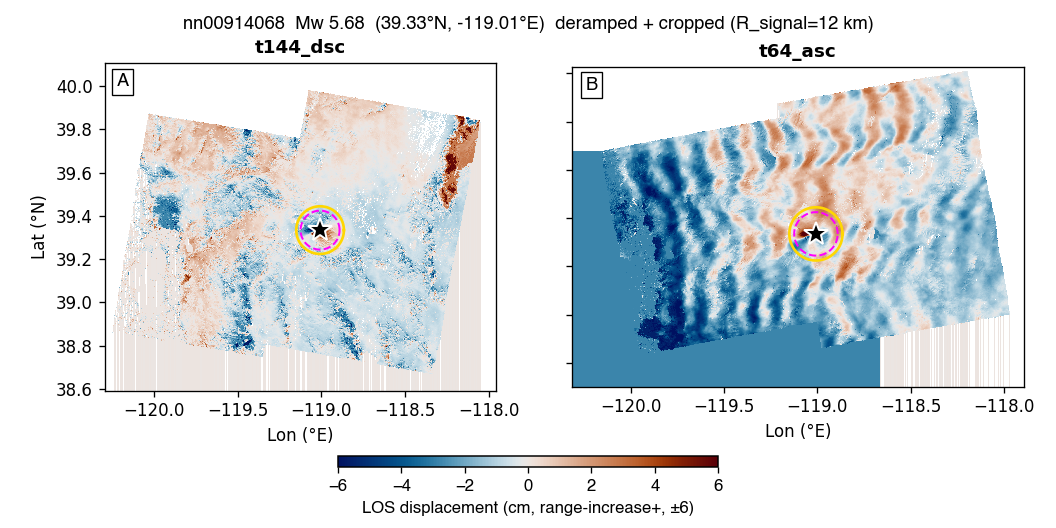
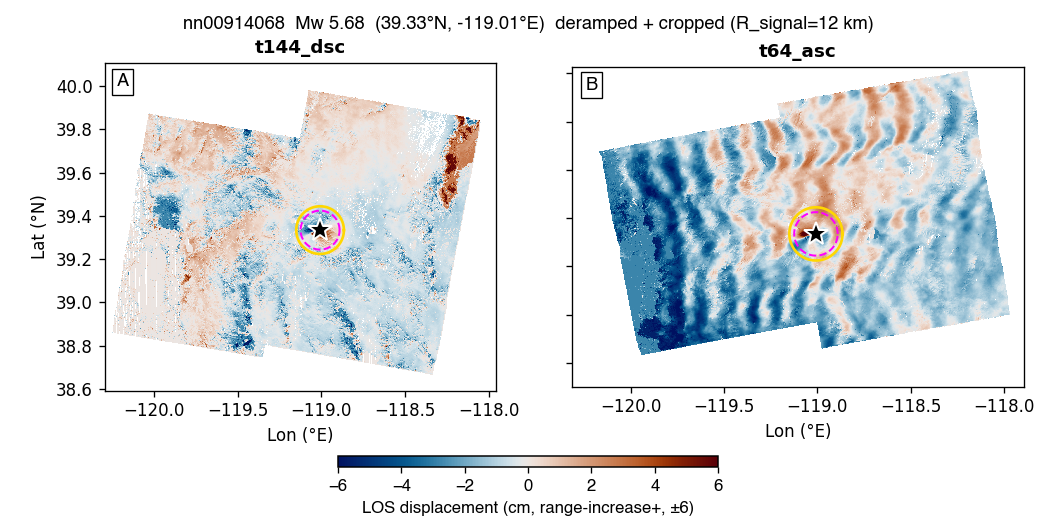
catalog update 2026-05-21T02:46:06Z (79 events)

Changed region(s): [[0.5312, 0.2727, 0.9688, 0.7576], [0.0938, 0.2727, 0.4688, 0.7576]]

diff --git a/events/nn00914068/REPORT.html b/events/nn00914068/REPORT.html
@@ -26,7 +26,7 @@
 </head><body>
 
 <h1>nn00914068 — Mw 5.68 — GBIS report</h1>
-
+<div class="summary" style="border-left-color:#1a7a2a"><b style="color:#1a7a2a">✓ VALIDATED</b> — all diagnostics A/B; usable as a source model.</div>
 
 <div class="summary">
 <b>Event:</b> 20 km ESE of Silver Springs, Nevada · (39.334°N, -119.007°E, depth 5.0 km)<br>
@@ -65,7 +65,7 @@
 </table>
 <p style="font-size:12px;color:#666">震源深度对比：USGS = 报告的震源（hypocenter）深度；GBIS = 断层质心深度 (Z_top+Z_bot)/2。</p>
 <p style="font-size:12px;color:#666">Note: GBIS optimum = single MAP sample reported by GBIS in <code>invResults.model.optimal</code>, NOT a chain median.</p>
-<div class="summary"><b>Posterior diagnostics: <span class="ok">PASS</span></b><br>acceptance 0.20 (target 0.20–0.45) · ESS 605 (≥500) · Geweke |z| 1.5 (≤2)<br>VR per track: t144_dsc 0.55 · t64_asc 0.43 (≥0.50)<br>全部通过</div>
+<div class="summary"><b>Adaptive grade — zone GREEN</b><br>acceptance 0.21 (0.20–0.45) · ESS 1169 (≥250) · Geweke |z| 1.47 (≤2) · VR_min 0.43<br>grades: ess=A · acceptance=B · geweke=A · vr_min=B · vr_mean=C · railed=A · delta_mw=A · delta_strike=A</div>
 
 <h2>4. Beachball comparison</h2>
 <img src="gbis/np1/figures/04_beachball.png">
@@ -80,5 +80,23 @@
 <h2>7. Burn-in / chain trace</h2>
 <img src="gbis/np1/figures/07_trace.png">
 <p style="font-size:12px;color:#666">Blue shading = SA cooling (first 50k iterations). Gray = post-burnin MCMC. Red horizontal = GBIS reported optimum. Dashed orange = USGS NP1 W&amp;C value.</p>
+
+
+<h2>8. Agent Review (LLM advisory)</h2>
+<div style="background:#f5f8fc;border-left:4px solid #666;
+            padding:11px 14px;margin:12px 0;font-size:13px;line-height:1.55">
+  <div style="font-size:15px"><b style="color:#666">Rating: ?</b>
+   &nbsp;·&nbsp; <i>LLM advisor not invoked</i></div>
+  <div style="margin-top:8px"><b>Recommendation:</b> <code>manual_review</code>
+   &nbsp; <b>Confidence:</b> low</div>
+  
+  <div><b>Concerns:</b><ul style="margin:4px 0"><li>ANTHROPIC_API_KEY not set — to enable LLM advisory, export ANTHROPIC_API_KEY and re-run</li></ul></div>
+  <div><b>Rationale:</b> ANTHROPIC_API_KEY not set — to enable LLM advisory, export ANTHROPIC_API_KEY and re-run</div>
+  
+  <div style="margin-top:10px;color:#777;font-size:11.5px">
+    Advisory only. Generated by claude ?
+    (0 tokens) — not used to drive pipeline actions.
+  </div>
+</div>
 
 </body></html>